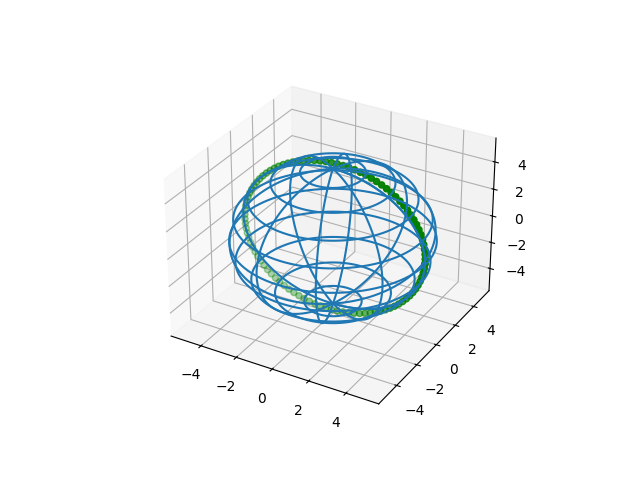
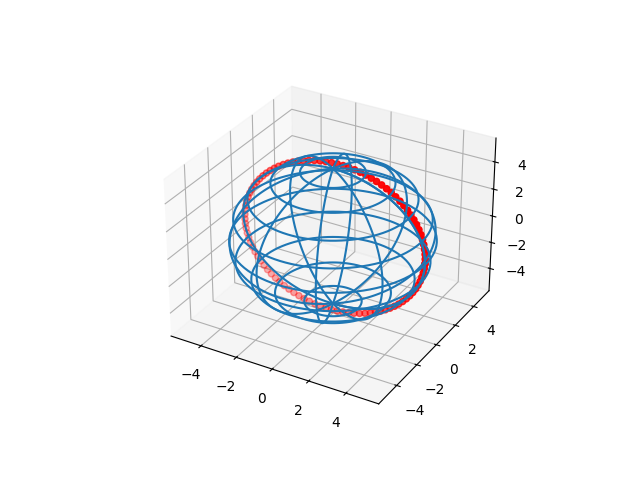
yt

diff --git a/task3.py b/task3.py
@@ -1,0 +1,52 @@
+import numpy as np
+import matplotlib.pyplot as plt
+fix, ax = plt.subplots(subplot_kw={"projection": "3d"})
+
+phi = np.linspace(0, 2*np.pi, 100)
+theta = np.linspace(0, np.pi, 100)
+R = 5
+x = R * np.outer(np.cos(phi), np.sin(theta))
+y = R * np.outer (np.sin(phi), np.sin(theta))
+z = R * np.outer(np.ones(np.size(phi)), np.cos(theta))
+
+ax.plot_wireframe(x, y, z, rstride=10, cstride=10)
+
+a = 10  
+b = -50 
+t = 10 
+
+x1 = R * np.cos(b) * np.cos(a)
+y1 = R * np.cos(b) * np.sin(a)
+z1 = R * np.sin(b)
+ax.plot (x1, y1, z1, color='r')
+
+def Ox(x1, y1, z1, a):
+    a_rad = np.radians(a)
+    x2 = x1
+    y2 = y1 * np.cos(a) - z1 * np.sin(a)
+    z2 = y1 * np.sin(a) + z1 * np.cos(a)
+    return x2, y2, z2
+
+def Oy(x1, y1, z1, b):
+    b_rad = np.radians(b)
+    y2 = y1
+    x2 = x1 * np.cos(b) + z1 * np.sin(b)
+    z2 = -x1 * np.sin(b) + z1 * np.cos(b)
+    return x2, y2, z2
+
+def Oz(x1, y1, z1, t): 
+    t_rad = np.radians(t)
+    z2 = z1
+    x2 = x1 * np.cos(t) - y1 * np.sin(t)
+    y2 = x1 * np.sin(t) + y1 * np.cos(t)
+    return x2, y2, z2
+
+x2, y2, z2 = Oz(x1, y1, z1, t)  
+x3, y3, z3 = Oy(x2, y2, z2, b) 
+x4, y4, z4 = Ox(x3, y3, z3, a) 
+
+ax.scatter(Ox, Oy, Oz, color='r') 
+
+ax.scatter(x4, y4, z4, c='r') 
+
+plt.savefig("fig_6.png")

diff --git a/task4.py b/task4.py
@@ -1,0 +1,49 @@
+import numpy as np
+import matplotlib.pyplot as plt
+fix, ax = plt.subplots(subplot_kw={"projection": "3d"})
+
+phi = np.linspace(0, 2*np.pi, 100)
+theta = np.linspace(0, np.pi, 100)
+R = 5
+x = R * np.outer(np.cos(phi), np.sin(theta))
+y = R * np.outer (np.sin(phi), np.sin(theta))
+z = R * np.outer(np.ones(np.size(phi)), np.cos(theta))
+
+ax.plot_wireframe(x, y, z, rstride=10, cstride=10)
+
+a = 40
+A = 250
+H = 50 
+
+x1 = R * np.cos(A) * np.cos(a)
+y1 = R * np.cos(A) * np.sin(a)
+z1 = R * np.sin(A)
+
+def Ox(x1, y1, z1, a):
+    a_rad = np.radians(a)
+    x2 = x1
+    y2 = y1 * np.cos(a) - z1 * np.sin(a)
+    z2 = y1 * np.sin(a) + z1 * np.cos(a)
+    return x2, y2, z2
+
+def Oy(x1, y1, z1, A):
+    b_rad = np.radians(A)
+    y2 = y1
+    x2 = x1 * np.cos(A) + z1 * np.sin(A)
+    z2 = -x1 * np.sin(A) + z1 * np.cos(A)
+    return x2, y2, z2
+
+def Oz(x1, y1, z1, H): 
+    t_rad = np.radians(H)
+    z2 = z1
+    x2 = x1 * np.cos(H) - y1 * np.sin(H)
+    y2 = x1 * np.sin(H) + y1 * np.cos(H)
+    return x2, y2, z2
+
+x2, y2, z2 = Oz(x1, y1, z1, H)  
+x3, y3, z3 = Oy(x2, y2, z2, A) 
+x4, y4, z4 = Ox(x3, y3, z3, a) 
+
+ax.scatter(x4, y4, z4, c='r') 
+
+plt.savefig("fig_7.png")

diff --git a/task.py b/task.py
@@ -1,0 +1,49 @@
+import numpy as np
+import matplotlib.pyplot as plt
+fix, ax = plt.subplots(subplot_kw={"projection": "3d"})
+
+phi = np.linspace(0, 2*np.pi, 100)
+theta = np.linspace(0, np.pi, 100)
+R = 5
+x = R * np.outer(np.cos(phi), np.sin(theta))
+y = R * np.outer (np.sin(phi), np.sin(theta))
+z = R * np.outer(np.ones(np.size(phi)), np.cos(theta))
+
+ax.plot_wireframe(x, y, z, rstride=10, cstride=10)
+
+a = 10  
+b = -50 
+t = 10 
+
+x1 = R * np.cos(b) * np.cos(a)
+y1 = R * np.cos(b) * np.sin(a)
+z1 = R * np.sin(b)
+
+Ox(x1, y1, z1, a):
+    a_rad = np.radians(a)
+    x2 = x1
+    y2 = y1 * np.cos(a) - z1 * np.sin(a)
+    z2 = y1 * np.sin(a) + z1 * np.cos(a)
+    
+
+def Oy(x1, y1, z1, b):
+    b_rad = np.radians(b)
+    y2 = y1
+    x2 = x1 * np.cos(b) + z1 * np.sin(b)
+    z2 = -x1 * np.sin(b) + z1 * np.cos(b)
+    return x2, y2, z2
+
+def Oz(x1, y1, z1, t): 
+    t_rad = np.radians(t)
+    z2 = z1
+    x2 = x1 * np.cos(t) - y1 * np.sin(t)
+    y2 = x1 * np.sin(t) + y1 * np.cos(t)
+    return x2, y2, z2
+
+x2, y2, z2 = Oz(x1, y1, z1, t)  
+x3, y3, z3 = Oy(x2, y2, z2, b) 
+x4, y4, z4 = Ox(x3, y3, z3, a) 
+
+ax.scatter(x4, y4, z4, c='r') 
+
+plt.savefig("fig_6.png")

diff --git a/task2.py b/task2.py
@@ -36,7 +36,7 @@ def Oz(x1, y1, z1, alpha):
 alpha = 80
 Ox, Oy, Oz = Ox(x1, y1, z1, alpha)
 
-ax.scatter(Ox, Oy, Oz, color='g') 
+ax.scatter(Ox, Oy, Oz, color='r') 
 
 plt.savefig("fig_5.png")
 
